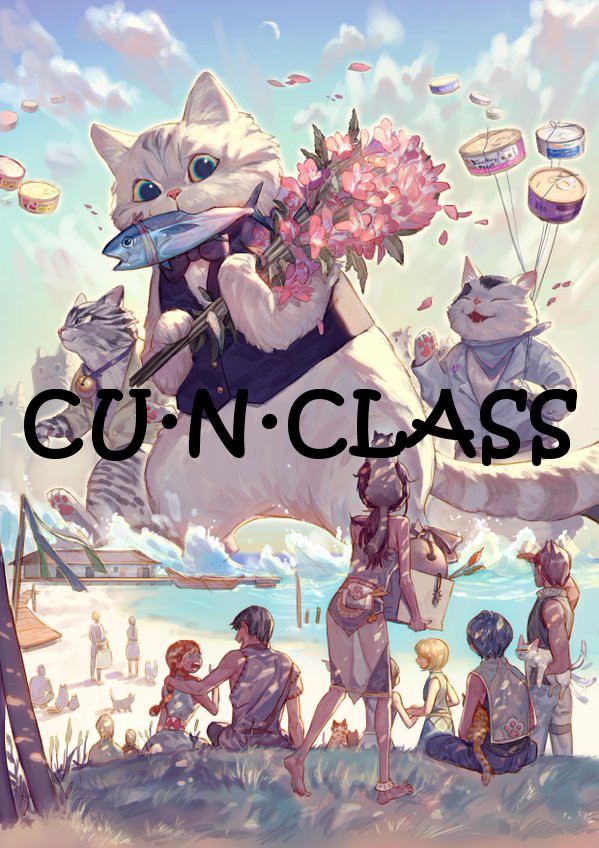
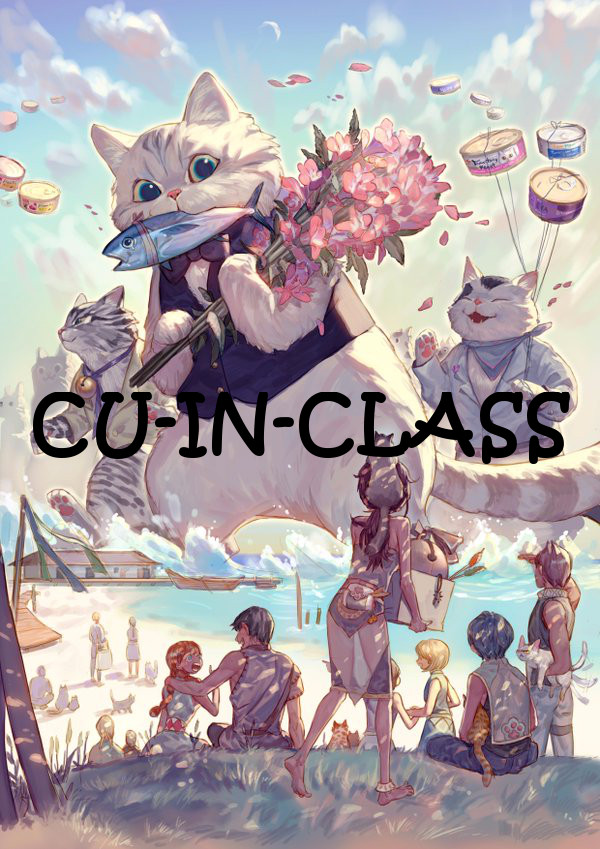
Fixed cat pic and TTP and enabled SplashScreen!

diff --git a/src/main/java/MainDriver.java b/src/main/java/MainDriver.java
@@ -3,10 +3,10 @@ public class MainDriver {
 
     	//CAT SPLASH SCREEN!!
     	//Comment out for now for testing/time purposes
-    	//SplashScreen s = new SplashScreen();
+    	SplashScreen s = new SplashScreen();
 
         //Now create main window of classes with list of classes just loaded
-        ClassMainFrame mainWindow = new ClassMainFrame("CU-N-CLASS");//CU�N�CLASS
+        ClassMainFrame mainWindow = new ClassMainFrame("CU-IN-CLASS");//CU�N�CLASS
 
         //Now set the visibility of the window to true
         mainWindow.setVisible(true);

diff --git a/src/main/java/ScoringOptionsDialog.java b/src/main/java/ScoringOptionsDialog.java
@@ -1,6 +1,6 @@
 import javax.swing.*;
 
-import javafx.beans.value.ObservableValue;
+//import javafx.beans.value.ObservableValue;
 
 import java.awt.*;
 import java.awt.event.ActionEvent;
